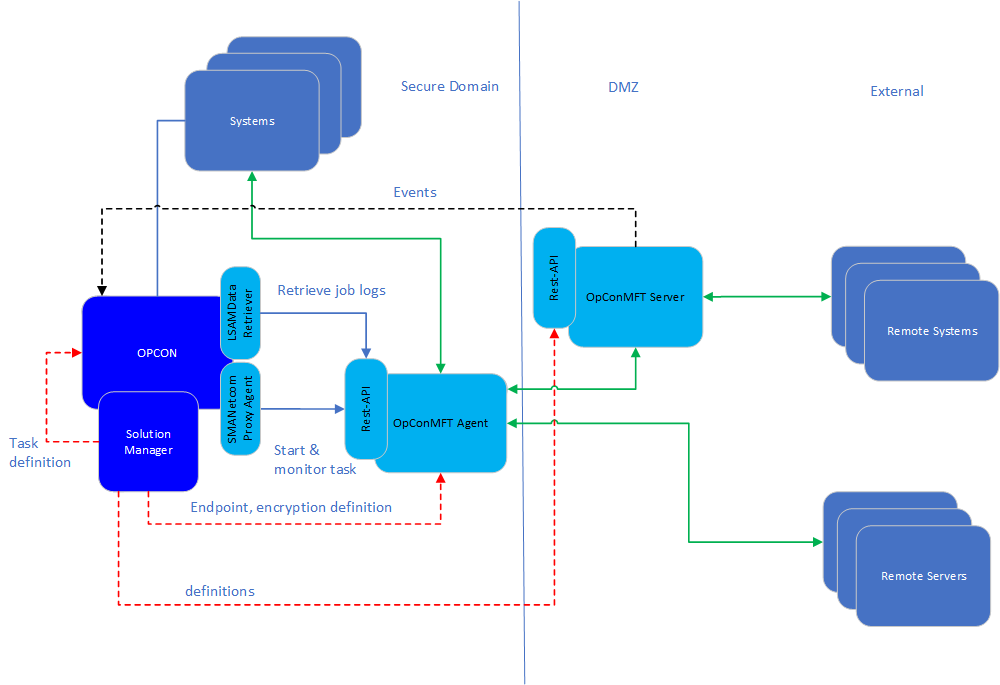
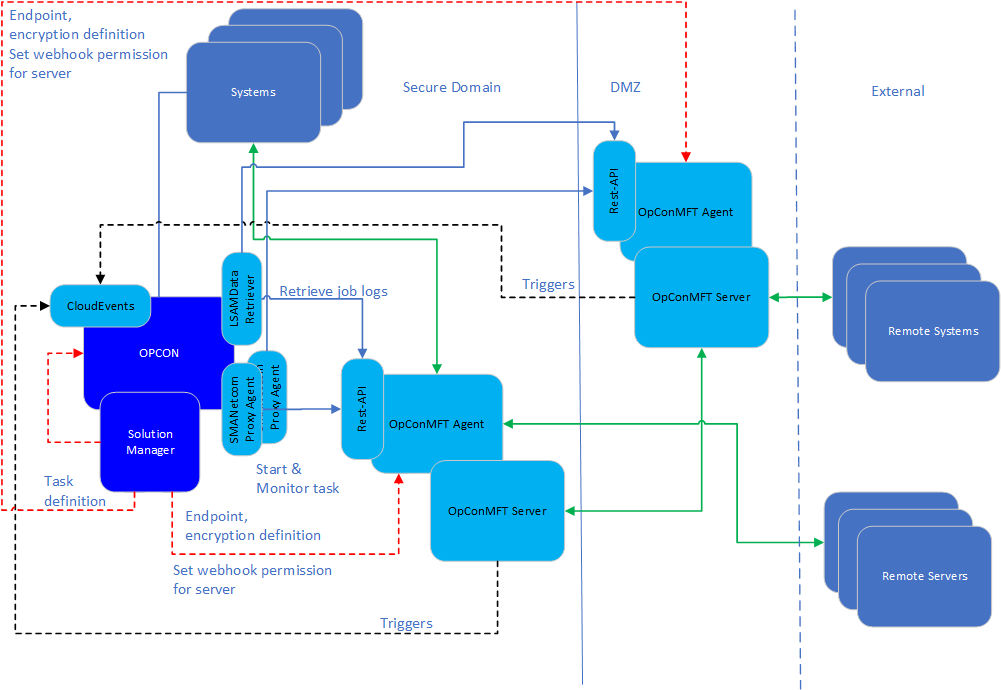
complete MFT Server updates

diff --git a/docs/server-triggers.md b/docs/server-triggers.md
@@ -27,46 +27,261 @@ To define trigger filter event mapping open the **CloudEvents Triggers** item in
 
 ![OpCon CloudEvents](../static/img/cloudevents-start.png)
 
-To define a CloudEvent, first define the Filter (what to look for).
+To define a CloudEvent, first define the Trigger Filter (what to look for) followed by the Trigger Event (what action to take).
 
-- Select the **+ Add** button.
-- Enter a unique name for the filter in the **Name** field.
-- select the green **+** bar below Trigger Filters to add a filter.
+Filters can be applied to the following types. Once a type has been selected, additional filters can be added on specific items within the type.  
 
-![Define Trigger Filter](../static/img/cloudevents-define-trigger-filter.png)
-
-When defining the trigger filter which field of the trigger should be checked and what within the selected field should be searched for need to be defined.
-
-The following filter fields are supported
-
-Field | Description
+Type        | Description
 ----------- | --------------------------------- 
-**source**  | indicates a value within the trigger information is the filter 
+**source**  | indicates filter on where the message came from
 **type**    | indicates filter on a trigger type
 **time**    | indicates filter on time
 
-### Filter 'source'
+## Filter 'source'
 
-### Filter 'type'
-When a type filter is selected, a drop-down list consisting of **Trigger Types** is displayed. Select the required type from the drop-down list.
+The source filter can be used to determine where the trigger came from.
 
-![Trigger Filter Type](../static/img/cloudevents-filter-type.png)
+For OpConMFT systems, use the name of the OpCon MFT Agent.
 
-### Filter 'time'
+## Filter 'type'
 
-Now define the action (what to do).
+Each trigger type has various fields that can be used to create additional filters. Once a trigger type has been selected, any further type filters will
+provide a drop-down list containing the available fields to filter on for the selected type.   
 
-- select the green **+** bar below Trigger Events to add an action.
+Trigger Type  : MFT Server Logon 
+- data.logonUserName
+- data.homeDir
+- data.protocol
+- data.remoteip
+- data.result
 
-![Define Trigger Events](../static/img/cloudevents-events.png)
+Trigger Type  : MFT Server Logoff 
+- data.logonUserName
+- data.homeDir
+- data.protocol
+- data.remoteip
+- data.result
 
-When defining trigger events, the type of event can be selected from the drop-down list, or the **edit** icon to the right of the drop down list can be selected which will display the list of global properties available on the OpCon system. This allow actions to be defined and stored in properties and used with CloudEvents.
+Trigger Type  : MFT Server Upload 
+- data.file
+- data.folder
+- data.path
+- data.fileDateTime
+- data.fileSize
+- data.logonUserName
+- data.homeDir
+- data.protocol
+- data.remoteip
+- data.result
+- data.duration
+
+Trigger Type  : MFT Server Download 
+- data.file
+- data.folder
+- data.path
+- data.fileDateTime
+- data.fileSize
+- data.logonUserName
+- data.homeDir
+- data.protocol
+- data.remoteip
+- data.result
+- data.duration
+
+Trigger Type  : MFT Server Start
+- data.name
+- data.result
+
+Trigger Type  : MFT Server Copy File 
+- data.file
+- data.folder
+- data.path
+- data.fileDateTime
+- data.fileSize
+- data.targetFile
+- data.targetFolder
+- data.targetPath
+- data.targetFileDateTime
+- data.targetFileSize
+- data.logonUserName
+- data.homeDir
+- data.protocol
+- data.remoteip
+- data.result
+- data.duration
+
+Trigger Type  : MFT Server Move File 
+- data.file
+- data.folder
+- data.path
+- data.fileDateTime
+- data.fileSize
+- data.targetFile
+- data.targetFolder
+- data.targetPath
+- data.targetFileDateTime
+- data.targetFileSize
+- data.logonUserName
+- data.homeDir
+- data.protocol
+- data.remoteip
+- data.result
+- data.duration
+
+Trigger Type  : MFT Server Move Directory 
+- data.file
+- data.folder
+- data.path
+- data.fileDateTime
+- data.fileSize
+- data.targetFile
+- data.targetFolder
+- data.targetPath
+- data.targetFileDateTime
+- data.targetFileSize
+- data.logonUserName
+- data.homeDir
+- data.protocol
+- data.remoteip
+- data.result
+- data.duration
+
+Trigger Type  : MFT Server Delete File 
+- data.file
+- data.folder
+- data.path
+- data.fileDateTime
+- data.fileSize
+- data.logonUserName
+- data.homeDir
+- data.protocol
+- data.remoteip
+- data.result
+- data.duration
+
+Trigger Type  : MFT Server Delete Directory 
+- data.file
+- data.folder
+- data.path
+- data.fileDateTime
+- data.fileSize
+- data.logonUserName
+- data.homeDir
+- data.protocol
+- data.remoteip
+- data.result
+- data.duration
+
+## Filter 'time'
+The filter time uses regex patterns. 
+Future versions of the filter process will include more user friendly approaches to set date/time values.  
+
+## Using Regex Expressions
+When defining filters that have data fields, it possible to use wild cards. However, it should be noted that this is a regex expression and not a wild card selection, therefore
+  - wildcard **input?.dta** becomes **input..dta**
+  - wildcard **input?.\*** becomes **input..\***
+  - wildcard **input.\*** becomes **input.\***
+  - wildcard **\*.dta** not supported     
+
+## Using Data fields in OpCon Events
+It is possible that in some cases, when defining OpCon events, the data fields are not visible in the drop-down lists. If this is the case then the field can
+be entered manually by using the [[$EXTERNAL.DATA.field]] value.
+
+## Trigger Events
+Trigger events define the action to take when the filter conditions match. The events are standard OpCon events. 
+When defining events, the **data** fields associated with the selected Trigger Types can be used to pass information to the event.
+
+![Trigger Event Parameter Selection](../static/img/trigger-event-data-object-selection.png)
+
+To select a Filter Type value, select the **magic wand** to the right of the Event definition field.
+The required argument can then be selected from the drop-down list (arguments are prefixed with the DATA and when inserted into the event definition as [[$EXTERNAL.DATA.argument]]).
+
+## Examples
+
+### ***Display a message on the console when any file arrives on a specific OpCon MFT Server***
+
+A simple CloudEvent to display the name of all incoming files received by the defined MFT Server in the OpCon console. 
+
+- Select the **+ Add** button.
+- For **Filter On Field** select **source** from the drop-down list.
+
+![Filter Type Source](../static/img/cloudevents-filter-source.png)
+
+- For **Filter Value** enter the name of the OpConMFT system (the OpConMFT Agent name). When selected, the regex checker icon to the right of the field can be used to test the regex expression.
+
+![Filter Type Source Regex](../static/img/cloudevents-filter-source-regex-checker.png)
+
+- Select **OK**
+- Select the green **+** bar below Trigger Filters to add a type filter.  
+- For **Filter On Field** select **type** from the drop-down list.
+
+![Filter Type Upload](../static/img/cloudevents-filter-type-upload.png)
+
+- For **Filter Value** select **MFT Server Upload** from the drop-down list.
+- Select **OK**
+- Select the green **+** bar below Trigger Events to add an event. 
+
+![Filter Type Event](../static/img/cloudevents-filter-event-upload.png)
+
+- For **Event Template** select **$CONSOLE:Display** from the drop-down list.
+- In the message section 
+    - enter **File **.
+    - select the **Magic Wand** to the right of the field.
+    - select **$ DATA.FILE** from the drop-down list and select **OK**.
+    - enter ** Arrived**.
+- Select **OK**.    
+
+![Example Display All Files](../static/img/cloudevents-example-display-all-incoming-files.png)
+
+- Select **Save** to save and activate the filter.
+
+### ***Display a message when a specific file arrives in a specific directory on the associated OpCon MFT Server***
+
+Includes multiple filters to detect when a specific file arrives in a specific directory on the MFT Server and displays this in the OpCon console. 
+
+- Select the **+ Add** button.
+- Enter a unique name for the filter in the **Name** field.
+- Select the green **+** bar below Trigger Filters to add a filter.
+
+![Filter Type Upload](../static/img/cloudevents-filter-type-upload.png)
+
+- For **Filter On Field** select **type** from the drop-down list.
+- For **Filter Value** select **MFT Server Upload** from the drop-down list.
+- Select **OK**
+- Select the green **+** bar below Trigger Filters to add a second filter for directory. 
+    - As this is a second filter on the selected type **MFT Server Upload** the drop-down list now contains values that are associated with the event details. The items are prefixed with the word 'data' to indicate that this item is part of the event details.
+- Select **data.folder** from the drop-down.
+- enter **/bertie/input** to indicate which directory the file should arrive in.
+
+![Filter Type Upload Directory](../static/img/cloudevents-filter-type-folder.png)
+
+- Select **OK**.
+
+- Select the green **+** bar below Trigger Filters to add a third filter for file name. 
+    - As this is a third filter on the selected type **MFT Server Upload** the drop-down list now contains values that are associated with the event details. However any previously used values are no longer available in the drop-down list.
+- Select **data.file** from the drop-down.
+- enter **testfile.txt** to indicate which directory the file should arrive in.
+- Select **OK**.
+
+![Filter Type Upload File](../static/img/cloudevents-filter-type-file.png)
+
+- Select the green **+** bar below Trigger Events to add an event. 
+- For **Event Template** select **$CONSOLE:Display** from the drop-down list.
+- In the message section 
+    - enter **File **.
+    - select the **Magic Wand** to the right of the field.
+    - select **$ DATA.FOLDER** from the drop-down list and select **OK**.
+    - enter **/**.
+    - select **$ DATA.FILE** from the drop-down list and select **OK**.
+    - enter ** Arrived**.
+  
+![Define Trigger Filter](../static/img/cloudevents-filter-event-specific-upload.png)
+
+- Select **OK**.  
+
+![Example Display Specific File](../static/img/cloudevents-example-display-specific-incoming-file.png)
+
+- Select **Save** to save and activate the filter.
 
 
-![Trigger Events Action](../static/img/cloudevents-events-action.png)
 
-The above image shows the selected OpCon event **$CONSOLE:DISPLAY File Arrived**. 
-
-The combination of the filter and the event will result in the ***File Arrived** message being sent to the console every time a file is uploaded to the OpCon MFT Server.
-
-![Example - File Upload](../static/img/cloudevents-events-example-all-files.png)

diff --git a/docs/index.md b/docs/index.md
@@ -20,8 +20,9 @@ Component | Description
 The OpCon MFT environment comprises of many components that work together to provide the full Managed File Transfer (MFT) solution.
 
 ## Solution Manager
-Provides the User interface for the Managed File Transfer environment and provides capabilities for OpCon MFT task definition, defining  
-endpoints, encryption information, a dashboard providing file transfer status and query functions for current and previous executions. 
+Provides the User interface for the Managed File Transfer environment and provides capabilities for OpCon MFT Agent configuration, OpCon MFT Server 
+activation, OpCon MFT task definition, defining endpoints, encryption information, a dashboard providing file transfer status and query functions for 
+current and previous executions. 
 
 During task definition, the endpoint and encryption information is retrieved from the OpCon MFT Agent and provided in dropdown lists 
 allowing the user to select the appropriate values. Task definitions are stored within the OpCon environment, while endpoint and encryption 
@@ -39,6 +40,11 @@ The ProxyAgent continuously monitors the status of the OpCon MFT Agent marking t
 The LSAMDataRetriever has been modified to support the retrieval of job logs from the OpCon MFT Agent through the OpCon MFT Rest-API. The joblog provides
 information about the task as well as each step executed within the task.
 
+## CloudEvents
+CloudEvents is a new OpCon feature that accepts trigger messages through a webhook and allows the mapping of trigger messages to actions. For OpCon MFT Server supports 
+trigger messages such as file upload, file download, file deleted, file moved, directory deleted, etc. 
+Trigger filters are defined on the incoming messages and once a match is obtained, the associated Trigger event (OpCon event) will be passed to the OpCOn environment for action.
+
 ## OpCon MFT Rest-API
 The OpCon MFT ProxyAgent communicates with the OpCon MFT Agent through the OpCon MFT Rest-API. 
 The Rest-API provides the following functionalities:
@@ -47,6 +53,7 @@ The Rest-API provides the following functionalities:
 - Get the current status of an OpCon MFT task.
 - Retrieve the job log of an OpCon MFT task.
 - Retrieve a list of configured endpoints and encryption information for task definition.
+- Register OpCon MFT Server connection to OpCon Webhook for trigger submission.
 
 ## OpCon MFT Agent 
 The OpCon MFT Agent provides a file transfer capability for B2B interactions. It supports the submission and retrieval of data files between
@@ -65,3 +72,7 @@ optionally using compression and or using encryption on the file set and transfe
 
 During the task execution, the OpCon MFT Agent persists each completed step. If a step fails and the task is restarted, the task will restart from the 
 failed step.
+
+## OpCon MFT Server 
+The OpCon MFT is an additional component of the OpCon MFT Agent. It provides full file server functionality as well as user file-sharing capabilities. 
+It supports the forwarding of triggers to the OpCon CloudEvents feature enabling OpCon to perform actions on the forwarded triggers.  

diff --git a/docs/architecture.md b/docs/architecture.md
@@ -4,6 +4,8 @@ An alternate to the traditional OpCon - Agent - Application integration approach
 
 The approach requires that the application to be integrated supports a Rest-API, which then allows the application to function as the OpCon Agent. Enhancements to the SMANetCom module provides new functionality that communicates directly with the application using standard Rest-API calls (GET, POST, PUT, DELETE).
 
+The OpCon MFT Server is an additional component of the OpCon MFT Agent. 
+
 ![Architecture Overview](../static/img/architecture-overview.png)
 
 OpCon provides the following functions:
@@ -23,6 +25,7 @@ The OpCon MFT Agent provides the following functions:
 - Stores endpoint definitions.
 - Stores encryption definitions.
 - Execution of tasks submitted by OpCon.
+- Accepts webhook registration requests from OpCon for the OpCon MFT Server.
 
 The SMANetCom module has been enhanced to support connections to a remote application using Rest-API calls.
 
@@ -93,3 +96,31 @@ This library provides a set of generalized models that are used by the **Rest-AP
 
 ## MFT Model Library
 This library provides the model definitions used by the OpCon MFT Agent Rest-API. It is used by the **ProxyAgent** and the **LSAMDataRetriever** when submitting requests to the OpCon MFT Agent Rest-API.  
+
+## Triggers
+Triggers are automatically posted by the OpCOn MFT Server to the OpCon Webhook.
+The following triggers events are submitted to OpCon
+
+- MFT Server Logon                  
+- MFT Server Logoff                 
+- MFT Server Upload                 
+- MFT Server Download              
+- MFT Server Start                  
+- MFT Server Copy File              
+- MFT Server Move File                   
+- MFT Server Move Directory             
+- MFT Server Delete File             
+- MFT Server Delete Directory 
+
+## Webhook
+OpCon webhook that receives trigger events and forwards these to the CloudEvents module for processing. Applications that submit trigger events to OpCon are authenticated by OpCon receiving a token from OpCon that must be accompanied with every trigger event. Any trigger event that does not contain a token or and an invalid token are ignored by the webhook.
+
+## CloudEvents
+CloudEvents is a new OpCon feature that receives trigger events from the Webhook. It provides the capability to define Trigger Filters for matches on the incoming messages and then processing a defined action for the match. 
+
+Each incoming message must match the schema definition for Webhook messages. 
+
+The Trigger filters operate on three components of the Trigger message (source - details, type, time).
+
+The Trigger Events (actions) consist of OpCon Events. Standard property definitions for file events exist within the OpCon system which can be used to inject file information 
+into OpCon events.
